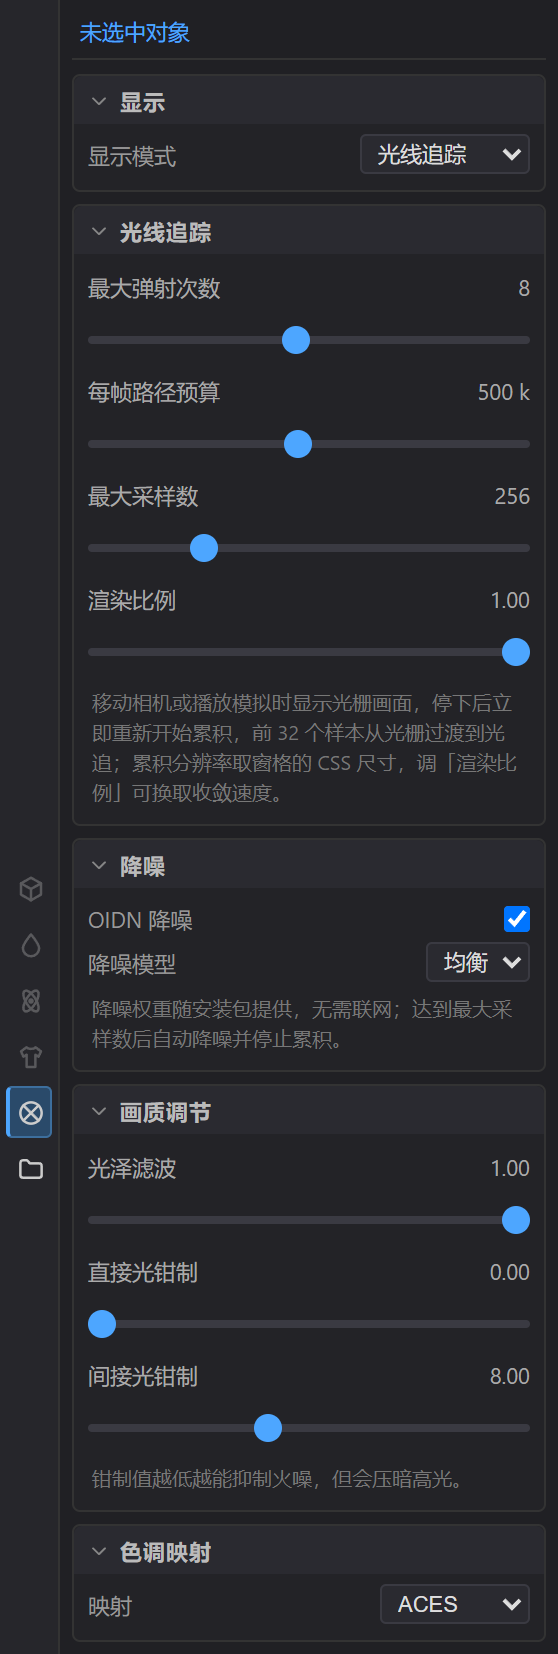
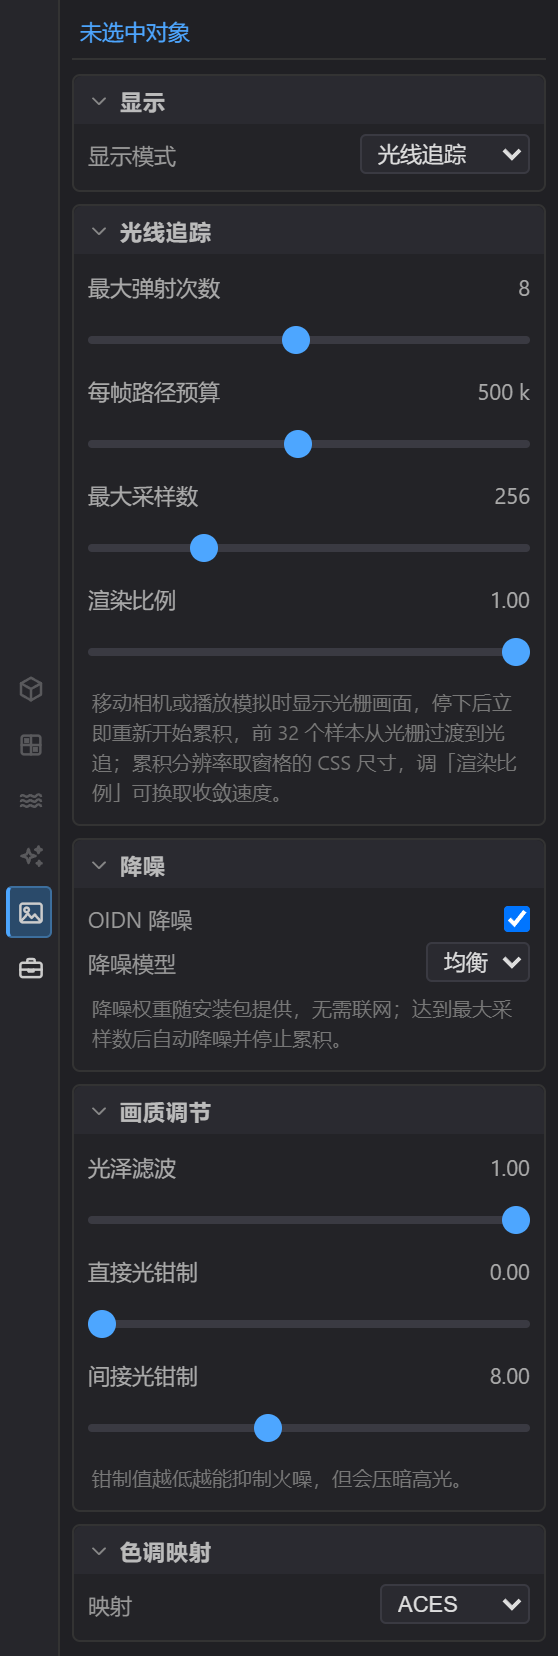
docs: align property tabs and section wording with the refreshed editor

diff --git a/docs/dev/06-UI与状态管理.md b/docs/dev/06-UI与状态管理.md
@@ -671,11 +671,11 @@ export function orderedDartLegs(pattern, first, second): { leg1; leg2 } | null;
 
 | 标签 | 内容 | 适用对象 |
 | --- | --- | --- |
-| 对象 | 身份三项（名称 / 类型 / 可见性·启用，没有显隐状态的行只给前两项；版片另有锁定与分组）与该类型的数据分区 | 除场景与集合外的所有行 |
+| 对象 | 身份三项（名称 / 类型 / 可见性·启用，没有显隐状态的行只给前两项；版片另有锁定与分组，模特另有外观：实体 / 半透明）与该类型的数据分区 | 除场景与集合外的所有行 |
 | 材质 | 材质槽三行加外观参数 | 版片 |
-| 模拟器 | 版片的面料物理六项与布料网格，或模特的碰撞开关 | 版片、模特 |
-| 生成器 | 版片的着装方式，或模特的模型来源与导入 | 版片、模特 |
-| 渲染 | 显示模式（光栅化、光追、线框、UV 检查、法线可视化，以及合身热图 / 应变热图；后两项展开阈值或色标、读数与 CSV）与色调映射；光追时追加三组 | 恒可用 |
+| 模拟 | 版片的面料物理六项、布料网格（网格密度）与碰撞（碰撞层），或模特的碰撞开关 | 版片、模特 |
+| 生成 | 版片的着装方式，或模特的模型来源与导入 | 版片、模特 |
+| 渲染 | 显示模式（光栅化、光追、线框、UV 检查、法线可视化，以及合身热图 / 应变热图）与色调映射；两种热图各自展开同名的「合身热图」「应变热图」区块（阈值或色标、读数与 CSV）；光追时追加三组 | 恒可用 |
 | 工程 | 工程名称（可编辑，写 `meta.name`）与统计、全局模拟七项、尺码表 | 恒可用 |
 
 - `propTab` 存上次用的标签，若对新选中对象不适用则当帧回落到第一个可用标签（不需要额外 effect）；未选中任何行时回落到「工程」。
@@ -691,6 +691,7 @@ export function orderedDartLegs(pattern, first, second): { leg1; leg2 } | null;
 - **名称**：可编辑，值取 `storedSceneName() ?? 行名`。
 - **类型**：`SCENE_KIND_LABELS` 加行注记。
 - **可见性 / 启用**：版片、参考物、模特、缝纫线写各自的显隐字段，光源与环境光写启用；点、边等元素行没有显隐状态，只有前两项。
+- **外观**：只有模特行有，实体 / 半透明两项，写 `Avatar.display`（`visible` / `translucent`）。
 
 - 有 `transform` 的行再加变换块，然后按 kind 分派到 `objectDataSections.tsx` 的数据分区。
 - 各分区的 `类型` 行改名成具体类型（`点类型` / `边类型` / `光源类型` / `相机类型` / `尺寸线类型`），与身份块的「类型」区分。
@@ -700,7 +701,7 @@ export function orderedDartLegs(pattern, first, second): { leg1; leg2 } | null;
 
 | kind | 数据分区 |
 | --- | --- |
-| 版片 | 身份块的锁定与分组（`PanelManageRows`）；「版型」：轮廓边、省道、内部线计数，缝份量 0–2 cm，对称轴与镂空环数；「尺寸」：轮廓读数（`panelSizeCm`，不含缝份）+「目标尺寸」两个 `NumberField`（宽 / 高，步长 0.5、两位小数）+ 勾选「等比缩放」+「倒圆角」半径 `NumberField` 与同名按钮，提交 `ScalePanelCommand` / `FilletCornersCommand`；「生产」：布纹线角度 −180°~180°、布纹线位置（相对轮廓包围盒中心的 X / Y 两个 `NumberField`）、布纹线长度（`NumberField`，填 0 回到自动），三行都提交同一条 `SetPanelGrainCommand`。模拟器页为面料物理加「布料网格」（网格密度 `NumberField` 0.5–10 cm，步长 0.5，提交 `SetPanelMeshResolutionCommand`，只重建该片；全局网格边长是批量设置，见 05 §3；碰撞层 0–9）；生成器页为「着装」（方式与手动放置） |
+| 版片 | 身份块的锁定与分组（`PanelManageRows`）；「版型」：轮廓边、省道、内部线计数，缝份量 0–2 cm，对称轴与镂空环数；「尺寸」：轮廓读数（`panelSizeCm`，不含缝份）+「目标尺寸」两个 `NumberField`（宽 / 高，步长 0.5、两位小数）+ 勾选「等比缩放」，提交 `ScalePanelCommand`；「倒圆角」：半径 `NumberField` 与同名按钮，提交 `FilletCornersCommand`；「生产」：布纹线角度 −180°~180°、布纹线位置（相对轮廓包围盒中心的 X / Y 两个 `NumberField`）、布纹线长度（`NumberField`，填 0 回到自动），三行都提交同一条 `SetPanelGrainCommand`。模拟页为面料物理、独立成块的「布料网格」（网格密度 `NumberField` 0.5–10 cm，步长 0.5，提交 `SetPanelMeshResolutionCommand`，只重建该片；全局网格边长是批量设置，见 05 §3）与「碰撞」（碰撞层 0–9）；生成页为「着装」（方式与手动放置） |
 | 点 | 坐标两个可编辑 `NumberField`（X / Y 步长 0.1、两位小数，提交 `MovePointsCommand`）、点类型（角点 / 曲线点，`patchValue` 写 `kind`）、手柄有/无，以及每个非基码一行「放码 <码名>」的两个 `NumberField`（提交 `SetPointGradingCommand`）加「复制」「粘贴」两个 `SmallButton`（§6.8） |
 | 边 | 边类型（直线 / 曲线 / 圆弧）、长度（`edgeLength()` 实时量，可编辑 `NumberField`：步长 0.1、两位小数、提交 `SetEdgeLengthCommand`）；选中圆弧边时追加半径（cm，步长 0.1）与圆心角（°、1–359、步长 0.5）两个 `NumberField`，提交 `SetArcParamsCommand`；与邻边夹角（同片轮廓上共享顶点的边做 `PopupSelect` 参照 + 目标角 `NumberField`，提交 `SetEdgeAngleCommand`；当前夹角实时算出，无邻边时整行不出现）、语义（十个取值）、缝份 0–2 cm、角型（尖角 / 圆弧 / 斜角） |
 | 内部线 | 用途（分割线 / 折痕 / 装饰线）、点数 |
@@ -709,10 +710,10 @@ export function orderedDartLegs(pattern, first, second): { leg1; leg2 } | null;
 | 注释 | 文字、角度 −180°~180°、字号 2–12 mm、坐标读数、删除注释 |
 | 测量 | 尺寸线类型（两点距离 / 边长 / 角度）、数值（`measurementValue()`，角度一位小数、其余两位）、尺码表多于两码时逐码一行「各码 <码名>」、删除标注 |
 | 缝纫线 | 甲边 / 乙边两片读数、缝型、缝合强度 0.05~1、乙边反向、甲乙区间百分比读数与四个端点滑块（`0.01` 步进，改一端会夹住另一端）、`type === 'gather'` 时的缩缝比例 0.5~1、勾选「对位点」（一次同时给甲乙两侧放上区间中点，取消则两侧的 `anchorT` 一起删掉）、开启后多出「甲对位」「乙对位」两条滑条（量程夹在各自区间内）、线色。「接角」区块用 `seamJoint()` 给出起点与终点两个读数：`角度° 顺直｜弯折 x.x°｜重叠 x.x°`，缝合端没落在角点上时写「缝合端不在角点」 |
-| 模特 | 对象页「体型」：模特外观（实体 / 半透明）与身体参数；生成器页「模型来源」：内置下拉 / 导入 / 归一化身高 |
+| 模特 | 身份块「外观」：实体 / 半透明；对象页「体型」：身高、胸围、腰围、臀围四项身体参数，「姿态」：手臂外展、腿部开合、躯干倾斜与四个姿态预设；生成页「模型来源」：内置下拉 / 导入 / 归一化身高 |
 | 参考物 | 模型是否已存入本地、透明度、删除参考物体 |
-| 光源 | 光源类型（四种切换并保留已填值）、强度（量程随类型）、颜色、删除光源，再加该类型用得上的位置/目标/距离/锥角/边缘/宽高 |
-| 环境光 | 强度、导入环境图、恢复内置环境 |
+| 光源 | 「光源」：光源类型（四种切换并保留已填值）、强度（量程随类型）、颜色、删除光源；「位置」：方向或位置与目标；「照射范围」（非方向光）：照射距离、锥角、边缘柔化、宽度与高度随类型出现 |
+| 环境光 | 当前环境图名称读数、强度、导入环境图、恢复内置环境 |
 | 相机 | 相机类型（透视 / 正交）、位置、目标、视野角或视野高度 |
 
 三轴拖拽单元与「复位变换」在 `widgets/numberField.tsx`（`NumberField` 与 `Vec3Field`），数值走 §5.3 的 preview/commit 路径。
@@ -791,7 +792,7 @@ export function orderedDartLegs(pattern, first, second): { leg1; leg2 } | null;
 
 五个顶级菜单：文件、编辑、窗口、视图、帮助。
 
-> **注**：菜单里没有「模拟」与「渲染」下拉——播放与重置在时间轴。视图只留布局（四种布局、左右均分、切换焦点）：视角与投影在 3D 工具条，适应视图在 2D 工具条的「适应」，版片显隐在场景树；PIN、重建、显示、编辑预览只在 3D 工具条，材质、模拟器、生成器、工程与光追参数在属性编辑器。
+> **注**：菜单里没有「模拟」与「渲染」下拉——播放与重置在时间轴。视图只留布局（四种布局、左右均分、切换焦点）：视角与投影在 3D 工具条，适应视图在 2D 工具条的「适应」，版片显隐在场景树；PIN、重建、显示、编辑预览只在 3D 工具条，材质、模拟、生成、工程与光追参数在属性编辑器。
 
 编辑 ▸ 删除选中（`Delete` / `Backspace`）按选中行的形态分岔：版片行组成 `DeleteSelectionCommand`，其余 `@kind:id` 行组成 `DeleteElementsCommand`，两者都有时包进 `CompositeCommand('删除选中')` 一次提交，成功后清空选择，失败弹「删除失败：<中文原因>」。
 

diff --git a/docs/user/02-版型设计.md b/docs/user/02-版型设计.md
@@ -280,7 +280,7 @@
 
 ## 9. 版片的属性
 
-选中场景树里的一张版片，右侧属性编辑器分六个标签：**对象 / 材质 / 模拟器 / 生成器 / 渲染 / 工程**。版片相关的四页按下面的区块顺序排列；选中任何对象时，「对象」标签最顶上的「对象」块都给出同样的三项——**名称**可改、**类型**、**可见性 / 启用**；没有显隐状态的对象只给出前两项。
+选中场景树里的一张版片，右侧属性编辑器分六个标签：**对象 / 材质 / 模拟 / 生成 / 渲染 / 工程**。版片相关的四页按下面的区块顺序排列；选中任何对象时，「对象」标签最顶上的「对象」块都给出同样的三项——**名称**可改、**类型**、**可见性 / 启用**；没有显隐状态的对象只给出前两项。
 
 ### 9.1 对象：身份、锁定与变换
 
@@ -298,11 +298,11 @@
 
 缩放会带走曲线控制柄、圆弧的圆心与半径、内部线、省尖、注释和各码放缩量；带圆弧边的片只能等比缩放，与其它片共用顶点的片要先「结构 ▸ 断开选中顶点」再缩放（§3.2）。
 
-### 9.3 模拟器：面料物理与布料网格
+### 9.3 模拟：面料物理、布料网格与碰撞
 
-**面料物理**块编辑这张片所用那份材质的力学参数（拉伸 / 弯曲 / 剪切 / 折痕刚度、克重、阻尼，见 [04-布料模拟](./04-布料模拟.md) §2）。**布料网格**块给出这张片的**网格密度**（0.5–10 cm，步长 0.5，默认 1.5；改它只重建这一片，见 §10）与**碰撞层**（0–9 的整数，0 为最内层，见 [04-布料模拟](./04-布料模拟.md) §4）。
+**面料物理**块编辑这张片所用那份材质的力学参数（拉伸 / 弯曲 / 剪切 / 折痕刚度、克重、阻尼，见 [04-布料模拟](./04-布料模拟.md) §2）。**布料网格**块给出这张片的**网格密度**（0.5–10 cm，步长 0.5，默认 1.5；改它只重建这一片，见 §10）。**碰撞**块给出**碰撞层**（0–9 的整数，0 为最内层，见 [04-布料模拟](./04-布料模拟.md) §4）。
 
-### 9.4 生成器：着装
+### 9.4 生成：着装
 
 **着装**块写出这张片生成时的摆放方式：模板生成的片写作「环绕 躯干 / 手臂 / 腿 / 领口」，未指定着装方式的片显示「自动推断」——按片名判断（名字里含「袖」的走手臂，含「后」的走后半圈）；有手工摆放记录的片另有「手动放置：平面摆放」一行。
 
@@ -318,7 +318,7 @@
 
 ## 10. 布料密度
 
-- 每张版片都有自己的**网格密度**（模拟器标签「布料网格」区块，0.5–10 cm，步长 0.5，默认 1.5）：数值越大，布料网格越疏、计算越快、褶皱越粗；越小越细腻但越慢。提交后只重建这一片，模拟回到初始状态（未着装）。
+- 每张版片都有自己的**网格密度**（模拟标签「布料网格」区块，0.5–10 cm，步长 0.5，默认 1.5）：数值越大，布料网格越疏、计算越快、褶皱越粗；越小越细腻但越慢。提交后只重建这一片，模拟回到初始状态（未着装）。
 - 工程标签的**全局网格边长**（0.5–10 cm，步长 0.5，默认 1.5）是批量设置：松手后把所有版片的网格密度改成该值并重建全部布料，模拟回到初始状态。之后仍可逐片调整。
 - 模板与新建版片默认使用 1.5 cm；一件服装的布料网格点控制在 5000~10000 之间能获得流畅的实时体验，最常用的手段是把全局网格边长调大，或只把大片的网格密度调大。
 
@@ -326,7 +326,7 @@
 
 ### 11.1 收省与姿态
 
-收省不会自动计算省量守恒：省量仍需手动填写，闭合只是把两条省边缝在一起（模拟效果见 §6.3）。模特也没有姿态动画：姿势由姿态预设与「模特」区块的三组滑条静态设定，没有逐关节编辑，改动即重建模特、布料与模拟状态（[03-缝合与着装](./03-缝合与着装.md) §4、§6）。
+收省不会自动计算省量守恒：省量仍需手动填写，闭合只是把两条省边缝在一起（模拟效果见 §6.3）。模特也没有姿态动画：姿势由「姿态」区块的预设与三组滑条静态设定，没有逐关节编辑，改动即重建模特、布料与模拟状态（[03-缝合与着装](./03-缝合与着装.md) §4、§6）。
 
 ### 11.2 按尺寸求解的形状编辑
 

diff --git a/docs/user/03-缝合与着装.md b/docs/user/03-缝合与着装.md
@@ -125,7 +125,7 @@
 
 | 问题 | 原因 | 解决 |
 | --- | --- | --- |
-| 布料穿透模特 | 初始位置与身体重叠，或碰撞被关掉 | 调整初始位置让版型在体表外侧；确认模拟器标签里「布料与模特碰撞」已勾选 |
+| 布料穿透模特 | 初始位置与身体重叠，或碰撞被关掉 | 调整初始位置让版型在体表外侧；确认模拟标签里「布料与模特碰撞」已勾选 |
 | 服装扭转 | 缝合两边的走向相反 | 选中该缝纫线，在对象标签「缝合」里打开「乙边反向」；两条边本身配对不上时用模板重新生成版型 |
 | 着装后散架 | 有一对边没拼上，或两条边的角度区间、走向不匹配 | 点工具条「缝合」检查配对是否齐全；确认无误仍散架时用模板重新生成版型 |
 | 衣服滑落 | 顶部假缝点被清掉了 | 按 `R` 重置，或重新打PIN |
@@ -138,12 +138,13 @@
 | 想做什么 | 位置 |
 | --- | --- |
 | 改名 | 对象标签 · 对象 · 「名称」可改，场景树里的「模特」行跟着变 |
-| 换模特 | 生成器标签 · 「模型来源」区块的「模型」下拉：女性模特 / 专业模特 / 标准模特 / 程序模特。切换时会一并套用该体型的三围尺寸 |
+| 换模特 | 生成标签 · 「模型来源」区块的「模型」下拉：女性模特 / 专业模特 / 标准模特 / 程序模特。切换时会一并套用该体型的三围尺寸 |
 | 导入自定义模特 | 「导入模特」按钮，或 文件 → 导入 → 模特模型…，支持 `.glb` / `.gltf` / `.obj`（选 `.gltf` 时要连同它的附属文件一起选中）。导入的模型按身高归一化、底部落地，碰撞体随其尺寸自动重建。导入是**可撤销**的一步操作；导入后「模型」下拉会多出「自定义：<文件名>」条目，撤销即回到之前的模特 |
-| 调体型 | 对象标签「体型」区块的滑条：身高 140–200 cm、胸围 60–140、腰围 50–130、臀围 60–150、手臂外展 0–90°、腿部开合 0–45°、躯干倾斜 ±20°，另有「自然」「A 型」「T 型」「侧立」四个姿态预设。尺寸或姿态改动会重建模特、布料与模拟状态 |
-| 看清服装与身体的关系 | 对象标签「体型」区块的「模特外观」选半透明；行首的可见性勾选决定模特画不画 |
+| 调体型 | 对象标签「体型」区块的滑条：身高 140–200 cm、胸围 60–140、腰围 50–130、臀围 60–150 |
+| 调姿态 | 对象标签「姿态」区块的三组滑条：手臂外展 0–90°、腿部开合 0–45°、躯干倾斜 ±20°，另有「自然」「A 型」「T 型」「侧立」四个姿态预设；体型或姿态改动都会重建模特、布料与模拟状态 |
+| 看清服装与身体的关系 | 对象标签「对象」区块的「外观」选半透明；行首的可见性勾选决定模特画不画 |
 | 整体移动模特 | 与版片、参考物一样，选中「模特」行后可用对象标签的「变换」拖位置 / 旋转 / 缩放三轴 |
-| 关掉碰撞 | 模拟器标签只有一个选项「布料与模特碰撞」，关掉后布料会穿过身体，方便观察服装内部结构 |
+| 关掉碰撞 | 模拟标签只有一个选项「布料与模特碰撞」，关掉后布料会穿过身体，方便观察服装内部结构 |
 
 > **注**：碰撞体是一组贴合身体的**胶囊**近似，不是逐像素的身体模型——极贴身造型下褶皱进入身体表面以内几毫米属正常，可用线框模式检查胶囊是否贴合（[05-材质与渲染](./05-材质与渲染.md) §3）。
 

diff --git a/docs/dev/04-布料模拟.md b/docs/dev/04-布料模拟.md
@@ -565,14 +565,14 @@ GarmentEngine.stepSimulation(config, fabric)        // garmentEngine.ts
 
 | 参数 | 界面 | 生效方式 |
 | --- | --- | --- |
-| 拉伸/弯曲/剪切刚度、克重 | 模拟器标签 | 就地改写约束柔度与逆质量，不重建、不重置（§5.4） |
-| 折痕刚度 | 模拟器标签（0–1，缺省 0.85） | 只改折痕约束那一批的柔度，不重建、不重置（§1.3.4） |
+| 拉伸/弯曲/剪切刚度、克重 | 模拟标签 | 就地改写约束柔度与逆质量，不重建、不重置（§5.4） |
+| 折痕刚度 | 模拟标签（0–1，缺省 0.85） | 只改折痕约束那一批的柔度，不重建、不重置（§1.3.4） |
 | 缝合区间、对位点、缝型、强度、乙边反向 | 对象标签 · 缝合 | 重排缝合约束（`setSeamConstraints`），粒子布局不变时不重建、不重置（§5.1.3） |
 | 收省（省道勾选） | 对象标签 · 省道 | 给省边生成静止长度为 0 的缝合对，同样只走约束签名这条就地路径（§1.3.3） |
-| 阻尼 | 模拟器标签 | 逐片写进粒子阻尼 buffer，就地生效（§2.4） |
+| 阻尼 | 模拟标签 | 逐片写进粒子阻尼 buffer，就地生效（§2.4） |
 | 重力 y、风速、迭代次数 | 工程标签 · 全局模拟 | 实时 |
 | 全局网格边长 | 工程标签 · 全局模拟 | 批量写入全部版片的网格密度，松手重建布料并重置模拟 |
-| 布料与模特碰撞 | 模拟器标签（模特行） | 实时（胶囊数写 0） |
+| 布料与模特碰撞 | 模拟标签（模特行） | 实时（胶囊数写 0） |
 | 布料自碰撞、布料厚度、层间距 | 工程标签 · 全局模拟 | 实时；厚度同时改模特与地面碰撞距离，自碰撞是 CPU 后处理（§2.6） |
-| 碰撞层 | 模拟器标签 · 布料网格（选中版片，0–9） | 改动该片的几何签名，走一次增量重建后生效（§2.6.1） |
+| 碰撞层 | 模拟标签 · 碰撞（选中版片，0–9） | 改动该片的几何签名，走一次增量重建后生效（§2.6.1） |
 | `dt` / `substeps` | 无 | 常量 1/60 与 4 |

diff --git a/docs/user/07-移动端使用.md b/docs/user/07-移动端使用.md
@@ -42,7 +42,7 @@
 
 ### 2.4 抽屉
 
-一次只开一个，从底部升起，点遮罩、点 `关闭` 或按 Esc 收起。四个抽屉：`菜单`、`视角`、`显示`、`参数`。`参数` 顶部是横排标签 `对象`、`材质`、`模拟器`、`生成器`、`渲染`、`工程`，与电脑端属性编辑器是同一批控件，只是尺寸放大到能用手指点按。
+一次只开一个，从底部升起，点遮罩、点 `关闭` 或按 Esc 收起。四个抽屉：`菜单`、`视角`、`显示`、`参数`。`参数` 顶部是横排标签 `对象`、`材质`、`模拟`、`生成`、`渲染`、`工程`，与电脑端属性编辑器是同一批控件，只是尺寸放大到能用手指点按。
 
 ## 3. 手势
 
@@ -61,7 +61,7 @@
 1. 打开地址，等「正在初始化 WebGPU 渲染器…」结束，画面里是模特与环绕在外的版片，顶栏状态为 `未着装`。
 2. 点 `自动着装`，约一秒钟后状态转成 `模拟中`，布料下垂贴合模特并形成褶皱。
 3. 单指旋转、双指缩放，从不同角度查看；要正面构图就点 `视角` 抽屉里的 `正视`。
-4. 轻点某张片（例如前片），点 `参数` 换颜色与光泽，或到 `模拟器` 标签改弯曲刚度与克重——改动立刻作用在正在运行的模拟上。
+4. 轻点某张片（例如前片），点 `参数` 换颜色与光泽，或到 `模拟` 标签改弯曲刚度与克重——改动立刻作用在正在运行的模拟上。
 5. 想存下来：`菜单` → `导出` → `截图 PNG`；`菜单` → `工程` → `保存` 会下载 `.ocproj.json`，之后可以在电脑上打开继续改版型。
 
 ## 5. 菜单抽屉的分组

diff --git a/docs/dev/02-数据模型.md b/docs/dev/02-数据模型.md
@@ -498,7 +498,7 @@ interface SimulationConfig {
   dt: number;                   // 固定 1/60，界面无滑块
   substeps: number;             // 默认 4，界面无滑块
   constraintIterations: number; // 默认 5，滑块 1~15
-  avatarCollision: boolean;     // 模拟器标签的唯一开关
+  avatarCollision: boolean;     // 模拟标签的唯一开关
   meshResolutionCm?: number;    // 最近一次批量设置的网格边长（SetGlobalMeshResolutionCommand 同步写入全部版片）
   clothThicknessCm?: number;    // 布料厚度，默认 0.2，滑块 0~1；同时抬高模特与地面碰撞距离
   selfCollision?: boolean;      // 布料自碰撞，默认 true；为 false 时整段 CPU 后处理跳过
